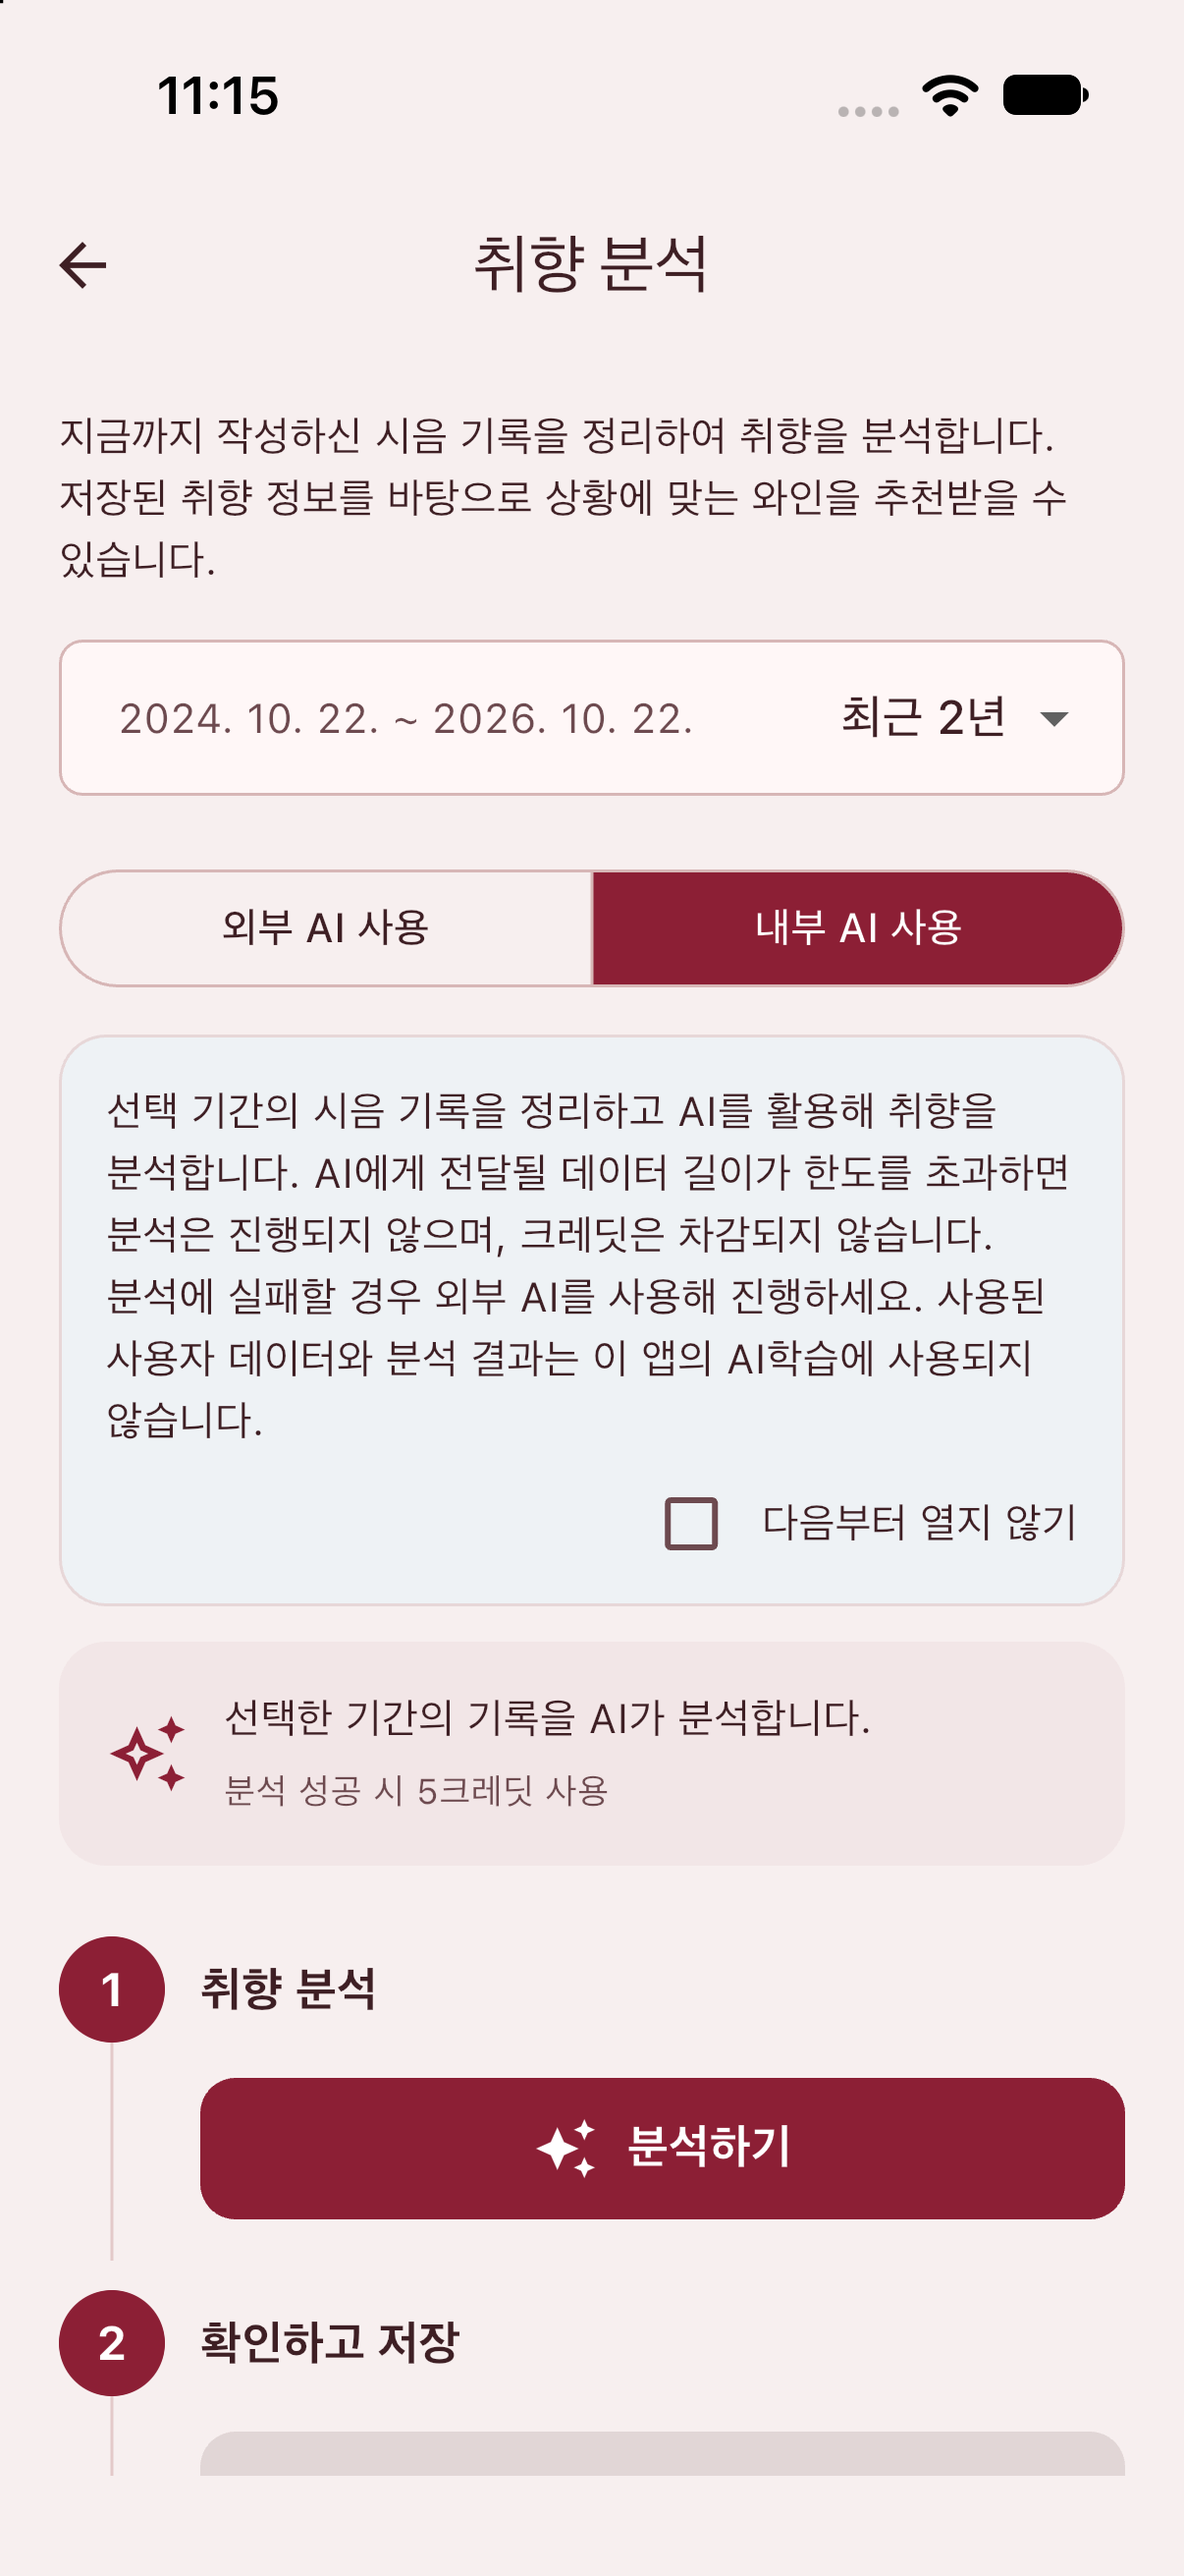
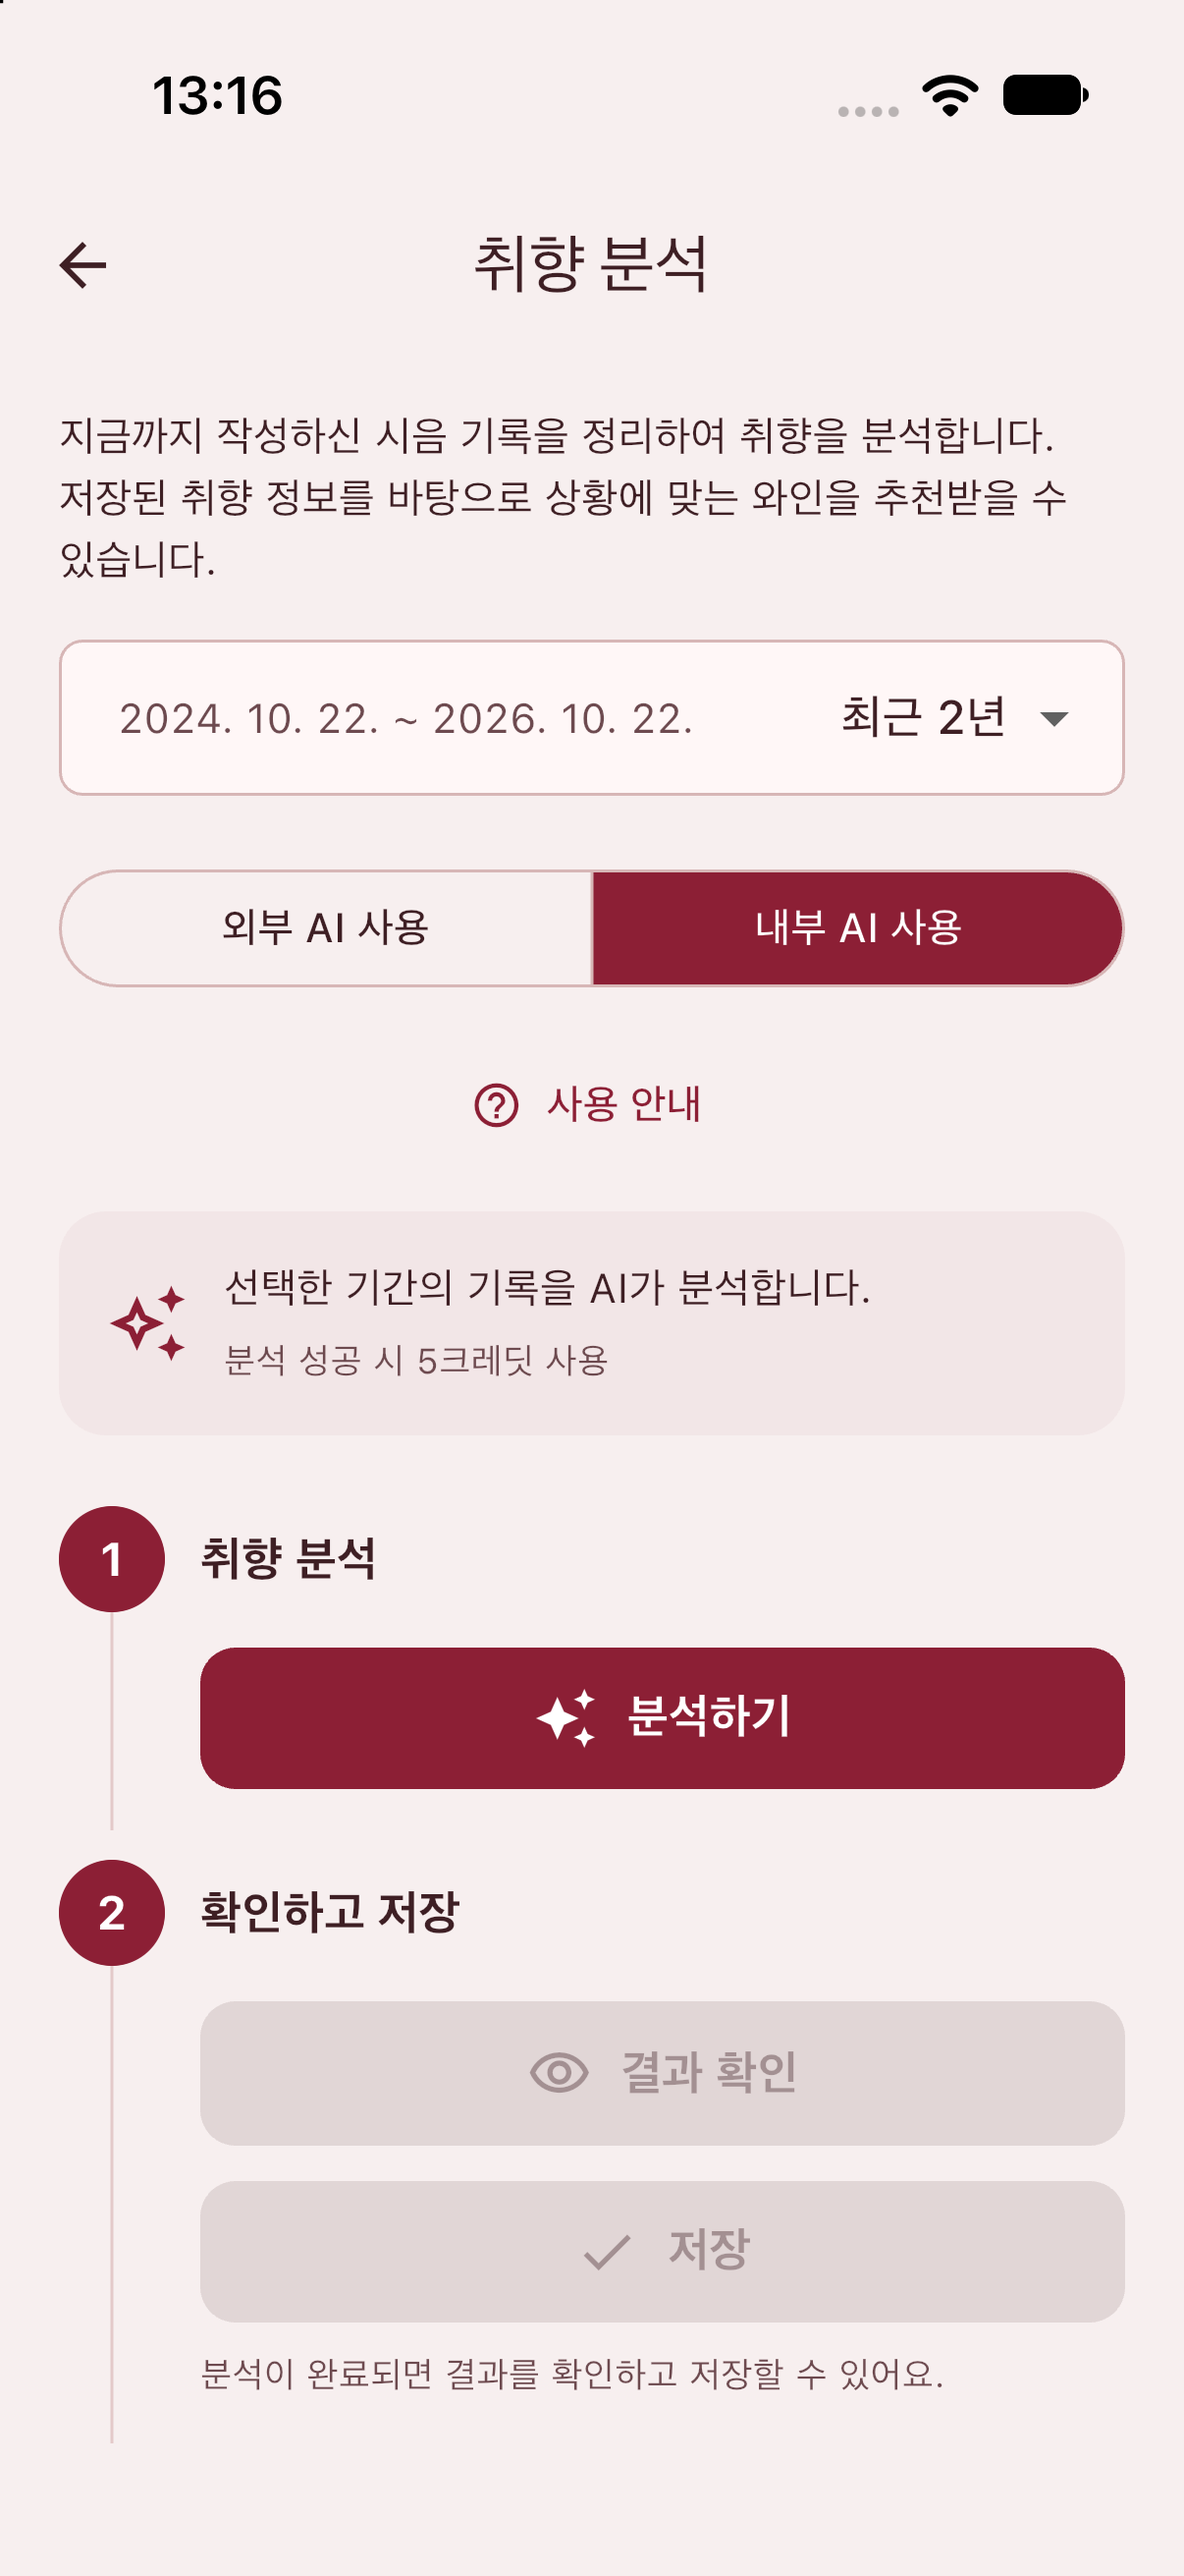
Refresh taste analysis screenshots with guide hidden

Changed region(s): [[0.0307, 0.587, 0.9511, 0.9886], [0.092, 0.4016, 0.8897, 0.5561], [0.1227, 0.0309, 0.2454, 0.0618]]

diff --git a/FEATURE_SCREENSHOT_BRIEF.md b/FEATURE_SCREENSHOT_BRIEF.md
@@ -6,7 +6,7 @@
 
 - 취향 분석·추천 설명을 현재 기간 선택과 내부/외부 AI, 취향·음식·상황·비교 시음 네 추천 목적에 맞게 수정했다.
 - `olwine-taste-analysis-ko.png`, `olwine-recommendation-ko.png`, `olwine-taste-analysis-en.png`, `olwine-recommendation-en.png`를 2026-10-22 iPhone 17/iOS 27 실제 화면(1206×2622)으로 교체했다. 분석이나 추천을 실행하지 않아 새 AI 호출·차감·결과 합성은 없다.
-- 국문·영문 취향 분석은 최근 2년/내부 AI 선택 화면을, 추천은 같은 세 와인과 네 가지 추천 목적을 표시한다. 와인명·사진·시음 원본은 변경하지 않았다. 잠금 해제 후 영문 두 장의 촬영까지 완료했다.
+- 국문·영문 취향 분석은 최근 2년/내부 AI 선택 화면을, 추천은 같은 세 와인과 네 가지 추천 목적을 표시한다. 취향 분석 두 장은 ‘다음부터 열지 않기’를 선택한 뒤 다시 진입하여 긴 사용 가이드를 숨긴 상태로 재촬영했다. ‘사용 안내’ 버튼과 크레딧 요약, 분석·결과 확인·저장 단계는 유지한다. 와인명·사진·시음 원본은 변경하지 않았다.
 - 아래 2026-10-19 캡처 이력은 나머지 이미지의 출처 기록으로 유지한다.
 
 | 순서 | 주요 기능 | 이미지 |
